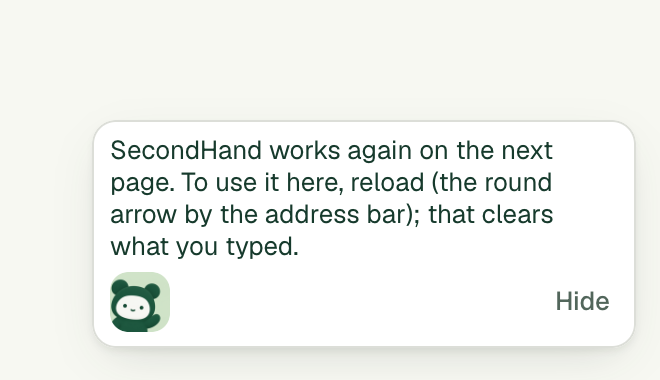
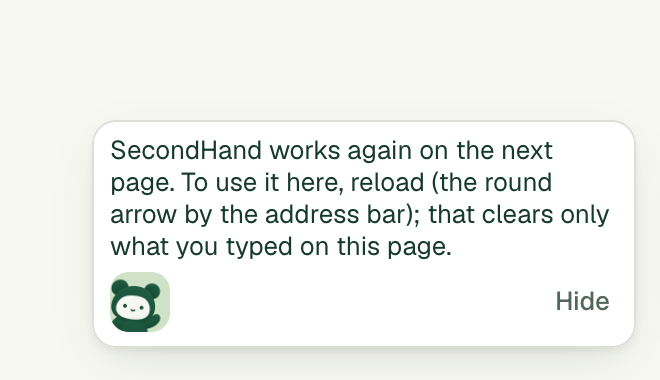
style: say reloading clears only this page, and how to reload, in the update notices
"Reloading clears what you typed" read as losing the whole application,
and the first notice said "reload" without saying how. The card and side
panel now name the round arrow by the address bar, say that reloading
clears only what was typed on this page, and that saved details stay in
the SecondHand app.

Changed region(s): [[0.4545, 0.6079, 0.697, 0.6947], [0.8485, 0.55, 0.9394, 0.6079]]

diff --git a/extension/strings.js b/extension/strings.js
@@ -169,15 +169,15 @@
     'widget.offerTitle': 'Show this page’s questions in English in SecondHand’s side panel',
     'widget.languageCheckFailed': 'SecondHand couldn’t check this page’s language.',
     'widget.outdated': 'SecondHand was updated.',
-    'widget.outdatedLong': 'SecondHand was updated. Click Restart SecondHand, then go to the next page, or reload this one; reloading clears what you typed.',
+    'widget.outdatedLong': 'SecondHand was updated. Click Restart SecondHand, then go to the next page, or reload this one with the round arrow by the address bar. That clears what you typed on this page; your saved details stay in the app.',
     'widget.restartTitle': 'Restart SecondHand to finish its update. Then reload this page.',
 
     // Pages newer than the worker Chrome still runs. The widget can't ask an outdated worker for a larger frame,
     // so it shows widget.outdated beside its Restart button; the side panel has room for all of this.
-    'panel.outdated': 'SecondHand was updated and needs to restart. This side panel will close. To use SecondHand again, go on to the next page of your form, or reload its page; reloading clears what you typed.',
+    'panel.outdated': 'SecondHand was updated and needs to restart. This side panel will close. To use SecondHand again, go on to the next page of your form, or reload its page with the round arrow by the address bar. That clears what you typed on that page; your saved details stay in the SecondHand app.',
     'panel.updated': 'SecondHand was updated to match the app on this computer.',
     // A widget left on a page when SecondHand reloaded. It shows the short line when its frame can't hold the long one.
-    'panel.reloadPage': 'SecondHand works again on the next page. To use it here, reload (the round arrow by the address bar); that clears what you typed.',
+    'panel.reloadPage': 'SecondHand works again on the next page. To use it here, reload (the round arrow by the address bar); that clears only what you typed on this page.',
     'panel.reloadPageShort': 'Reload this page to use SecondHand, or go on to the next page.',
     'panel.restart': 'Restart SecondHand',
     'panel.updateFailed': 'SecondHand couldn’t update its extension files. In the SecondHand app, open Chrome extension and click Refresh extension files. Then open chrome://extensions and click the reload arrow on SecondHand.',
@@ -696,12 +696,12 @@
     'widget.offerTitle': 'Mostrar las preguntas de esta página en español en el panel lateral de SecondHand',
     'widget.languageCheckFailed': 'SecondHand no pudo comprobar el idioma de esta página.',
     'widget.outdated': 'SecondHand se actualizó.',
-    'widget.outdatedLong': 'SecondHand se actualizó. Haga clic en “Reiniciar SecondHand” y luego pase a la página siguiente, o recargue esta; recargarla borra lo que escribió.',
+    'widget.outdatedLong': 'SecondHand se actualizó. Haga clic en “Reiniciar SecondHand” y luego pase a la página siguiente, o recargue esta con la flecha redonda junto a la barra de direcciones. Eso borra lo que escribió en esta página; sus datos guardados siguen en la aplicación.',
     'widget.restartTitle': 'Reinicie SecondHand para terminar su actualización. Luego recargue esta página.',
 
-    'panel.outdated': 'SecondHand se actualizó y necesita reiniciarse. Este panel lateral se cerrará. Para volver a usar SecondHand, pase a la página siguiente de su formulario o recargue la página; recargarla borra lo que escribió.',
+    'panel.outdated': 'SecondHand se actualizó y necesita reiniciarse. Este panel lateral se cerrará. Para volver a usar SecondHand, pase a la página siguiente de su formulario o recargue la página con la flecha redonda junto a la barra de direcciones. Eso borra lo que escribió en esa página; sus datos guardados siguen en la aplicación SecondHand.',
     'panel.updated': 'SecondHand se actualizó para seguir funcionando con la aplicación de esta computadora.',
-    'panel.reloadPage': 'SecondHand aparecerá otra vez en la página siguiente. Para usarlo aquí, recargue (la flecha redonda junto a la barra de direcciones); eso borra lo que escribió.',
+    'panel.reloadPage': 'SecondHand aparecerá otra vez en la página siguiente. Para usarlo aquí, recargue (la flecha redonda junto a la barra de direcciones); eso borra solo lo que escribió en esta página.',
     'panel.reloadPageShort': 'Recargue esta página para usar SecondHand, o pase a la página siguiente.',
     'panel.restart': 'Reiniciar SecondHand',
     'panel.updateFailed': 'SecondHand no pudo actualizar los archivos de su extensión. En la aplicación SecondHand, abra “Chrome extension” y haga clic en “Refresh extension files”. Luego abra chrome://extensions y haga clic en la flecha de recargar de SecondHand.',
@@ -1217,12 +1217,12 @@
     'widget.offerTitle': 'Hiển thị các câu hỏi của trang này bằng tiếng Việt trong bảng bên của SecondHand',
     'widget.languageCheckFailed': 'SecondHand không kiểm tra được ngôn ngữ của trang này.',
     'widget.outdated': 'SecondHand đã được cập nhật.',
-    'widget.outdatedLong': 'SecondHand đã được cập nhật. Bấm “Khởi động lại SecondHand”, rồi sang trang kế tiếp, hoặc tải lại trang này; tải lại sẽ xóa những gì bạn đã nhập.',
+    'widget.outdatedLong': 'SecondHand đã được cập nhật. Bấm “Khởi động lại SecondHand”, rồi sang trang kế tiếp, hoặc tải lại trang này bằng mũi tên tròn cạnh thanh địa chỉ. Việc đó xóa những gì bạn đã nhập trên trang này; thông tin đã lưu vẫn còn trong ứng dụng.',
     'widget.restartTitle': 'Khởi động lại SecondHand để hoàn tất cập nhật. Sau đó hãy tải lại trang này.',
 
-    'panel.outdated': 'SecondHand đã được cập nhật và cần khởi động lại. Bảng bên này sẽ đóng. Để dùng lại SecondHand, hãy chuyển sang trang kế tiếp của biểu mẫu, hoặc tải lại trang đó; tải lại sẽ xóa những gì bạn đã nhập.',
+    'panel.outdated': 'SecondHand đã được cập nhật và cần khởi động lại. Bảng bên này sẽ đóng. Để dùng lại SecondHand, hãy chuyển sang trang kế tiếp của biểu mẫu, hoặc tải lại trang đó bằng mũi tên tròn cạnh thanh địa chỉ. Việc đó xóa những gì bạn đã nhập trên trang đó; thông tin đã lưu vẫn còn trong ứng dụng SecondHand.',
     'panel.updated': 'SecondHand đã được cập nhật cho khớp với ứng dụng trên máy này.',
-    'panel.reloadPage': 'SecondHand hoạt động lại ở trang kế tiếp. Để dùng ở đây, hãy tải lại (mũi tên tròn cạnh thanh địa chỉ); việc đó xóa những gì bạn đã nhập.',
+    'panel.reloadPage': 'SecondHand hoạt động lại ở trang kế tiếp. Để dùng ở đây, hãy tải lại (mũi tên tròn cạnh thanh địa chỉ); việc đó chỉ xóa những gì bạn đã nhập trên trang này.',
     'panel.reloadPageShort': 'Hãy tải lại trang này để dùng SecondHand, hoặc sang trang kế tiếp.',
     'panel.restart': 'Khởi động lại SecondHand',
     'panel.updateFailed': 'SecondHand không thể cập nhật các tệp tiện ích của mình. Trong ứng dụng SecondHand, hãy mở “Chrome extension” và bấm “Refresh extension files”. Sau đó mở chrome://extensions và bấm mũi tên tải lại trên SecondHand.',
@@ -1739,12 +1739,12 @@
     'widget.offerTitle': '在 SecondHand 侧边栏中用中文显示此页面的问题',
     'widget.languageCheckFailed': 'SecondHand 无法检查此页面的语言。',
     'widget.outdated': 'SecondHand 已更新。',
-    'widget.outdatedLong': 'SecondHand 已更新。请点击“重新启动 SecondHand”，然后进入下一页，或重新加载此页；重新加载会清除您输入的内容。',
+    'widget.outdatedLong': 'SecondHand 已更新。请点击“重新启动 SecondHand”，然后进入下一页，或用地址栏旁的圆形箭头重新加载此页。这会清除您在此页输入的内容；已保存的信息仍在应用中。',
     'widget.restartTitle': '重新启动 SecondHand 以完成更新，然后重新加载此页面。',
 
-    'panel.outdated': 'SecondHand 已更新，需要重新启动。此侧边栏将会关闭。要继续使用 SecondHand，请进入表格的下一页，或重新加载该页面；重新加载会清除您输入的内容。',
+    'panel.outdated': 'SecondHand 已更新，需要重新启动。此侧边栏将会关闭。要继续使用 SecondHand，请进入表格的下一页，或用地址栏旁的圆形箭头重新加载该页面。这会清除您在该页输入的内容；已保存的信息仍在 SecondHand 应用中。',
     'panel.updated': 'SecondHand 已更新，与本机上的应用保持一致。',
-    'panel.reloadPage': 'SecondHand 会在下一页重新出现。要在此页使用，请重新加载（地址栏旁的圆形箭头）；这会清除您输入的内容。',
+    'panel.reloadPage': 'SecondHand 会在下一页重新出现。要在此页使用，请重新加载（地址栏旁的圆形箭头）；这只会清除您在此页输入的内容。',
     'panel.reloadPageShort': '请重新加载此页面以使用 SecondHand，或进入下一页。',
     'panel.restart': '重新启动 SecondHand',
     'panel.updateFailed': 'SecondHand 无法更新其扩展程序文件。请在 SecondHand 应用中打开“Chrome extension”，点击“Refresh extension files”。然后打开 chrome://extensions，点击 SecondHand 上的重新加载箭头。',
@@ -2261,12 +2261,12 @@
     'widget.offerTitle': 'Afficher les questions de cette page en français dans le panneau latéral de SecondHand',
     'widget.languageCheckFailed': 'SecondHand n’a pas pu vérifier la langue de cette page.',
     'widget.outdated': 'SecondHand a été mis à jour.',
-    'widget.outdatedLong': 'SecondHand a été mis à jour. Cliquez sur « Redémarrer SecondHand », puis passez à la page suivante, ou rechargez celle-ci ; recharger efface ce que vous avez saisi.',
+    'widget.outdatedLong': 'SecondHand a été mis à jour. Cliquez sur « Redémarrer SecondHand », puis passez à la page suivante, ou rechargez celle-ci avec la flèche ronde près de la barre d’adresse. Cela efface ce que vous avez saisi sur cette page ; vos informations enregistrées restent dans l’application.',
     'widget.restartTitle': 'Redémarrez SecondHand pour terminer sa mise à jour. Rechargez ensuite cette page.',
 
-    'panel.outdated': 'SecondHand a été mis à jour et doit redémarrer. Ce panneau latéral va se fermer. Pour utiliser de nouveau SecondHand, passez à la page suivante de votre formulaire, ou rechargez sa page ; recharger efface ce que vous avez saisi.',
+    'panel.outdated': 'SecondHand a été mis à jour et doit redémarrer. Ce panneau latéral va se fermer. Pour utiliser de nouveau SecondHand, passez à la page suivante de votre formulaire, ou rechargez sa page avec la flèche ronde près de la barre d’adresse. Cela efface ce que vous avez saisi sur cette page ; vos informations enregistrées restent dans l’application SecondHand.',
     'panel.updated': 'SecondHand a été mis à jour pour correspondre à l’application de cet ordinateur.',
-    'panel.reloadPage': 'SecondHand fonctionnera de nouveau à la page suivante. Pour l’utiliser ici, rechargez (la flèche ronde près de la barre d’adresse) ; cela efface ce que vous avez saisi.',
+    'panel.reloadPage': 'SecondHand fonctionnera de nouveau à la page suivante. Pour l’utiliser ici, rechargez (la flèche ronde près de la barre d’adresse) ; cela efface seulement ce que vous avez saisi sur cette page.',
     'panel.reloadPageShort': 'Rechargez cette page pour utiliser SecondHand, ou passez à la page suivante.',
     'panel.restart': 'Redémarrer SecondHand',
     'panel.updateFailed': 'SecondHand n’a pas pu mettre à jour les fichiers de son extension. Dans l’application SecondHand, ouvrez « Chrome extension » et cliquez sur « Refresh extension files ». Ouvrez ensuite chrome://extensions et cliquez sur la flèche de rechargement de SecondHand.',
@@ -2783,12 +2783,12 @@
     'widget.offerTitle': 'عرض أسئلة هذه الصفحة بالعربية في اللوحة الجانبية لـ SecondHand',
     'widget.languageCheckFailed': 'لم يتمكن SecondHand من معرفة لغة هذه الصفحة.',
     'widget.outdated': 'تم تحديث SecondHand.',
-    'widget.outdatedLong': 'تم تحديث SecondHand. انقر على “إعادة تشغيل SecondHand”، ثم انتقل إلى الصفحة التالية، أو أعد تحميل هذه الصفحة؛ إعادة التحميل تمسح ما كتبته.',
+    'widget.outdatedLong': 'تم تحديث SecondHand. انقر على “إعادة تشغيل SecondHand”، ثم انتقل إلى الصفحة التالية، أو أعد تحميل هذه الصفحة بالسهم الدائري بجانب شريط العناوين. يمسح ذلك ما كتبته في هذه الصفحة؛ وتبقى معلوماتك المحفوظة في التطبيق.',
     'widget.restartTitle': 'أعد تشغيل SecondHand لإكمال تحديثه، ثم أعد تحميل هذه الصفحة.',
 
-    'panel.outdated': 'تم تحديث SecondHand ويحتاج إلى إعادة التشغيل. ستُغلق هذه اللوحة الجانبية. لاستخدام SecondHand من جديد، انتقل إلى الصفحة التالية من نموذجك، أو أعد تحميل صفحته؛ إعادة التحميل تمسح ما كتبته.',
+    'panel.outdated': 'تم تحديث SecondHand ويحتاج إلى إعادة التشغيل. ستُغلق هذه اللوحة الجانبية. لاستخدام SecondHand من جديد، انتقل إلى الصفحة التالية من نموذجك، أو أعد تحميل صفحته بالسهم الدائري بجانب شريط العناوين. يمسح ذلك ما كتبته في تلك الصفحة؛ وتبقى معلوماتك المحفوظة في تطبيق SecondHand.',
     'panel.updated': 'تم تحديث SecondHand ليطابق التطبيق على هذا الكمبيوتر.',
-    'panel.reloadPage': 'يعمل SecondHand من جديد في الصفحة التالية. لاستخدامه هنا، أعد التحميل (السهم الدائري بجانب شريط العناوين)؛ يمسح ذلك ما كتبته.',
+    'panel.reloadPage': 'يعمل SecondHand من جديد في الصفحة التالية. لاستخدامه هنا، أعد التحميل (السهم الدائري بجانب شريط العناوين)؛ يمسح ذلك ما كتبته في هذه الصفحة فقط.',
     'panel.reloadPageShort': 'أعد تحميل هذه الصفحة لاستخدام SecondHand، أو انتقل إلى الصفحة التالية.',
     'panel.restart': 'إعادة تشغيل SecondHand',
     'panel.updateFailed': 'تعذّر على SecondHand تحديث ملفات إضافته. في تطبيق SecondHand، افتح “Chrome extension” وانقر على “Refresh extension files”. ثم افتح chrome://extensions وانقر على سهم إعادة التحميل في SecondHand.',
